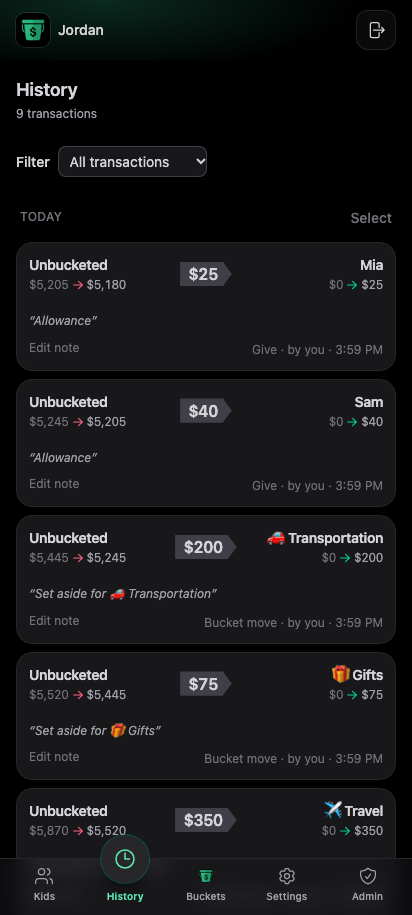
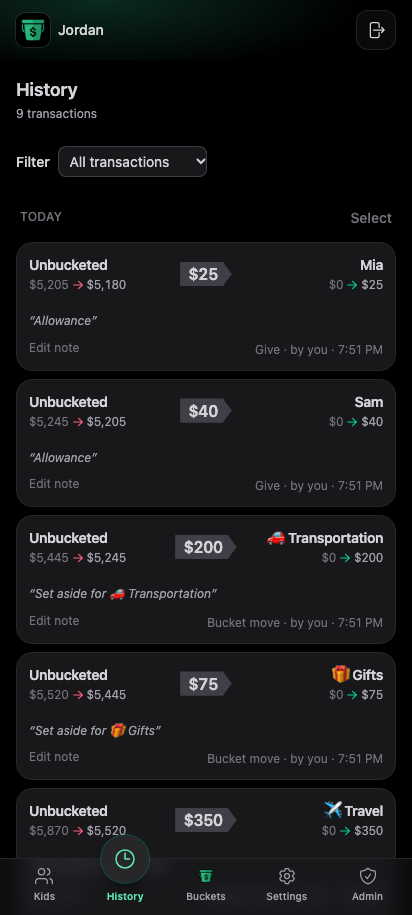
v1.19.3: Privacy link on login page, privacy-policy rule, OAuth docs (#370)
* v1.19.2: Privacy link on login, privacy-policy rule, OAuth/context docs, refreshed assets

* v1.19.3: bump version

---------

diff --git a/src/features/auth/LoginPage.tsx b/src/features/auth/LoginPage.tsx
@@ -13,6 +13,8 @@ import {
   LOGIN_GET_STARTED,
   LOGIN_NEW_HERE,
   LOGIN_OR,
+  LOGIN_PRIVACY,
+  PRIVACY_URL,
   LOGIN_SHARED_CTA,
   LOGIN_SHARED_TITLE,
   LOGIN_SIGNUP_SUCCESS,
@@ -548,6 +550,16 @@ export default function LoginPage() {
             <span className="font-medium text-zinc-300">{LOGIN_SHARED_TITLE}</span>
             <span className="font-semibold text-emerald-400">{LOGIN_SHARED_CTA}</span>
           </Link>
+          <p className="text-center text-xs">
+            <a
+              href={PRIVACY_URL}
+              target="_blank"
+              rel="noopener noreferrer"
+              className="text-zinc-500 hover:text-zinc-300 hover:underline focus-visible:outline focus-visible:outline-2 focus-visible:outline-offset-2 focus-visible:outline-emerald-400"
+            >
+              {LOGIN_PRIVACY}
+            </a>
+          </p>
         </div>
       </div>
     </div>

diff --git a/src/lib/brand/auth.ts b/src/lib/brand/auth.ts
@@ -8,6 +8,10 @@ export const LOGIN_GET_STARTED = 'Get started'
 
 export const LOGIN_OR = 'or'
 
+export const LOGIN_PRIVACY = 'Privacy'
+
+export const PRIVACY_URL = 'https://bucketmymoney.com/privacy'
+
 export const LOGIN_CONTINUE_GOOGLE = 'Continue with Google'
 
 export const LOGIN_CONTINUE_APPLE = 'Continue with Apple'

diff --git a/CONTEXT.md b/CONTEXT.md
@@ -313,6 +313,20 @@ History view hardening in `00000000000057_transactions_client_security_invoker.s
   name to `<email>'s Family`; neither is prompted for at signup. The admin keeps
   a **real email** on `auth.users` (shown on Settings → Admin sign-in; password
   reset via the same forgot-password email flow as login).
+- **Google sign-in (shipped; Apple built but hidden):** the login page offers
+  "Continue with Google" (`VITE_OAUTH_PROVIDERS`, default `google`). One flow for
+  sign-in and sign-up. A first-time OAuth user has no `family_members` row, so
+  `auth.tsx` calls the `bootstrap_oauth_household()` RPC (migration 110): it
+  creates the household + account-owner admin for the caller only, only when
+  Google/Apple is in `app_metadata.providers`, idempotently, one household per
+  user; email-only and PIN accounts are refused. An existing email account with
+  the same verified email is linked to the identity by Supabase. **PIN, passkey
+  and join code are unchanged:** members/kids still use internal
+  `@pin.bucketmymoney.internal` users and the join code; an OAuth admin can set
+  a PIN/passkey in Settings and signs back in via the `pin-login` magic link for
+  their real email. Setup and hosted config: [docs/OAUTH_SIGN_IN.md](./docs/OAUTH_SIGN_IN.md).
+  The public privacy policy lives on the marketing site
+  (`site/src/pages/privacy.astro`) and must stay truthful.
 - **Member display names:** admin-managed. Names must be **unique within a
   family** (case-insensitive) so PIN sign-in, Send, and the admin roster stay
   unambiguous. Admins inline-rename **any** member (including their own row) on

diff --git a/docs/OAUTH_SIGN_IN.md b/docs/OAUTH_SIGN_IN.md
@@ -59,3 +59,21 @@ Supabase → Authentication → URL Configuration: Site URL
 round trip locally, set `enabled = true`, a client id, and
 `SUPABASE_AUTH_EXTERNAL_GOOGLE_SECRET`, and add
 `http://127.0.0.1:54321/auth/v1/callback` to the Google client. Never commit the secret.
+
+## Hosted configuration (reference)
+
+- **Google Cloud project:** `Bucket My Money` (id `modern-sublime-514002-q9`),
+  audience External.
+- **OAuth client:** authorized JavaScript origins `https://app.bucketmymoney.com`
+  and `http://localhost:5173`; redirect URI
+  `https://csuppogfzxuikitolmtz.supabase.co/auth/v1/callback`.
+- **Publishing status.** While the consent screen is in **Testing**, only listed
+  test users can sign in and the project is capped at **100 test users**. Publish
+  to production (scopes are only `openid`, `email`, `profile`, so no
+  verification review is expected) before onboarding anyone outside that list.
+- **Privacy policy:** `site/src/pages/privacy.astro`, served at
+  `https://bucketmymoney.com/privacy` (the consent screen's privacy link; the
+  login page also links it). Keep it in sync per AGENTS.md.
+- **Privacy contact:** `privacy@bucketmymoney.com` via Cloudflare Email Routing
+  (Cloudflare → bucketmymoney.com → Email → Routing). A custom-address rule
+  forwards it to the owner's Gmail; the **catch-all stays disabled**.

diff --git a/AGENTS.md b/AGENTS.md
@@ -49,6 +49,11 @@ Entry point for AI coding agents (and humans) working in this repo.
   Deploy Supabase), so a human stays in the loop on every ship. Only run
   `gh pr merge --auto --squash --delete-branch` if the owner explicitly asks for
   it on that PR (see CONTRIBUTING § Branch workflow).
+- **Keep the privacy policy truthful.** Any change that adds a data source,
+  third-party service, tracker, or newly stored user field must update
+  [`site/src/pages/privacy.astro`](./site/src/pages/privacy.astro) in the same
+  PR. Flag-gated features (Bitcoin/Coinbase-style, `plaid`) only matter for
+  households with the flag, but the policy should still name them accurately.
 - **Realtime:** prefer narrow filters and route-scoped channels; app-shell watches
   (e.g. member removal) are fine — channels share one websocket per session. See
   [CONTEXT.md § Supabase Realtime](./CONTEXT.md#supabase-realtime).
